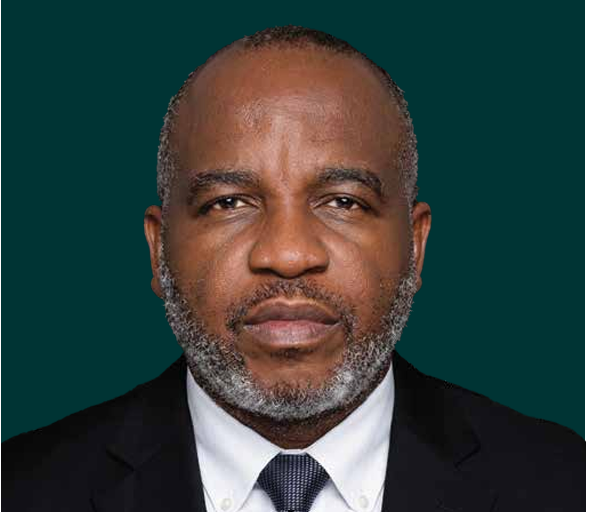
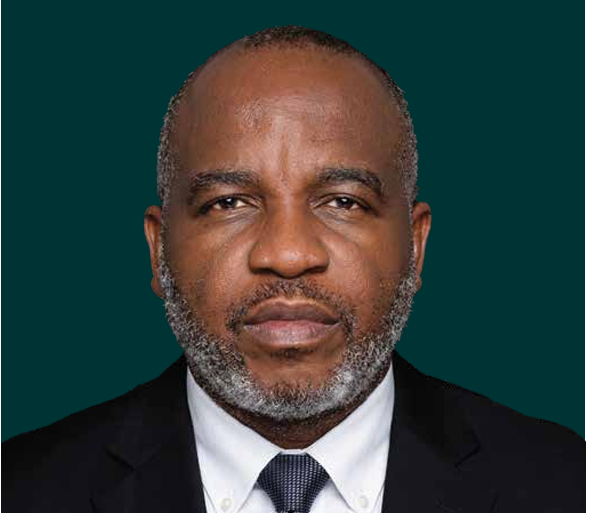
Update company profile assets and site metadata

diff --git a/constants.ts b/constants.ts
@@ -31,33 +31,33 @@ export const NAV_ITEMS: NavItem[] = [
 export const TEAM_MEMBERS = [
   {
     name: "Anthony Nwachukwu Nwokoro",
-    role: "Managing Director / CEO",
+    role: "CHAIRMAN / CHIEF EXECUTIVE OFFICER (CEO)",
     image: "/images/team/Anthony Nwachukwu Nwokoro.png",
-    bio: "Leads strategy, stakeholder engagement, and project execution across energy, engineering, and infrastructure mandates."
+    bio: "A seasoned energy executive with extensive experience in oil and gas, engineering, and infrastructure development."
   },
   {
     name: "Olusayo Ademola Ajayi",
-    role: "Executive Director, Engineering",
+    role: "NON-EXECUTIVE DIRECTOR",
     image: "/images/team/olusayonon executive director.png",
-    bio: "Guides engineering delivery, quality systems, and technical assurance for multidisciplinary projects."
+    bio: "A chartered engineer and project management expert with a track record in major EPCM projects."
   },
   {
     name: "Felix Radizi",
-    role: "Director, Operations",
+    role: "NON-EXECUTIVE DIRECTOR",
     image: "/images/team/felix.png",
-    bio: "Oversees field operations, fabrication support, logistics coordination, and operational readiness."
+    bio: "Expert in operations management, fabrication, and technical support for energy projects."
   },
   {
     name: "Ebele Ndukwe Radizi",
-    role: "Company Secretary / Chief Legal Officer",
+    role: "COMPANY SECRETARY/CHIEF LEGAL OFFICER",
     image: "/images/team/Ebele company sec.png",
-    bio: "Leads corporate governance, legal advisory, regulatory compliance, and stakeholder communication."
+    bio: "Specialist in corporate governance, compliance, and stakeholder engagement."
   },
   {
     name: "Adebola Evelyn Owede",
-    role: "Chief Finance Officer",
+    role: "NON-EXECUTIVE DIRECTOR",
     image: "/images/team/adebola chief finance.png",
-    bio: "CFA charterholder and senior finance professional with experience across treasury, capital markets, financial modelling, and strategic finance."
+    bio: "Finance professional with expertise in financial management and strategic planning."
   }
 ];
 
@@ -186,7 +186,7 @@ export const CONTACT_INFO = {
     }
   ],
   phone: "+234 806 388 5724",
-  phones: ["+234 806 388 5724", "+234 803 351 4867"],
+  phones: ["+234 806 388 5724", "+234 803 321 4867"],
   email: "[email redacted]",
   website: "www.verteenergies.com"
 };

diff --git a/public/leadership.html b/public/leadership.html
@@ -44,7 +44,7 @@
             <img src="/images/team/Anthony Nwachukwu Nwokoro.png" alt="Anthony Nwachukwu Nwokoro" class="aspect-square w-full max-w-[220px] rounded object-cover" />
             <div>
               <h2 class="text-2xl font-bold text-[#ffd700]">Anthony Nwachukwu Nwokoro</h2>
-              <p class="mt-1 text-[#B89B5E] font-semibold">Managing Director/CEO</p>
+              <p class="mt-1 text-[#B89B5E] font-semibold">CHAIRMAN / CHIEF EXECUTIVE OFFICER (CEO)</p>
               <p class="mt-4 text-gray-200 leading-relaxed">A seasoned energy executive with extensive experience in oil and gas, engineering, and infrastructure development.</p>
             </div>
           </div>
@@ -52,7 +52,7 @@
             <img src="/images/team/olusayonon executive director.png" alt="Olusayo Ademola Ajayi" class="aspect-square w-full max-w-[220px] rounded object-cover" />
             <div>
               <h2 class="text-2xl font-bold text-[#ffd700]">Olusayo Ademola Ajayi</h2>
-              <p class="mt-1 text-[#B89B5E] font-semibold">Executive Director, Engineering</p>
+              <p class="mt-1 text-[#B89B5E] font-semibold">NON-EXECUTIVE DIRECTOR</p>
               <p class="mt-4 text-gray-200 leading-relaxed">A chartered engineer and project management expert with a track record in major EPCM projects.</p>
             </div>
           </div>
@@ -60,7 +60,7 @@
             <img src="/images/team/felix.png" alt="Felix Radizi" class="aspect-square w-full max-w-[220px] rounded object-cover" />
             <div>
               <h2 class="text-2xl font-bold text-[#ffd700]">Felix Radizi</h2>
-              <p class="mt-1 text-[#B89B5E] font-semibold">Director, Operations</p>
+              <p class="mt-1 text-[#B89B5E] font-semibold">NON-EXECUTIVE DIRECTOR</p>
               <p class="mt-4 text-gray-200 leading-relaxed">Expert in operations management, fabrication, and technical support for energy projects.</p>
             </div>
           </div>
@@ -68,7 +68,7 @@
             <img src="/images/team/Ebele company sec.png" alt="Ebele Ndukwe Radizi" class="aspect-square w-full max-w-[220px] rounded object-cover" />
             <div>
               <h2 class="text-2xl font-bold text-[#ffd700]">Ebele Ndukwe Radizi</h2>
-              <p class="mt-1 text-[#B89B5E] font-semibold">Director, Corporate Services</p>
+              <p class="mt-1 text-[#B89B5E] font-semibold">COMPANY SECRETARY/CHIEF LEGAL OFFICER</p>
               <p class="mt-4 text-gray-200 leading-relaxed">Specialist in corporate governance, compliance, and stakeholder engagement.</p>
             </div>
           </div>
@@ -76,7 +76,7 @@
             <img src="/images/team/adebola chief finance.png" alt="Adebola Evelyn Owede" class="aspect-square w-full max-w-[220px] rounded object-cover" />
             <div>
               <h2 class="text-2xl font-bold text-[#ffd700]">Adebola Evelyn Owede</h2>
-              <p class="mt-1 text-[#B89B5E] font-semibold">Director, Finance</p>
+              <p class="mt-1 text-[#B89B5E] font-semibold">NON-EXECUTIVE DIRECTOR</p>
               <p class="mt-4 text-gray-200 leading-relaxed">Finance professional with expertise in financial management and strategic planning.</p>
             </div>
           </div>

diff --git a/api/send.js b/api/send.js
@@ -102,7 +102,7 @@ export default async function handler(req, res) {
     }
 
     const fromAddress = process.env.FROM_EMAIL || process.env.SMTP_USER;
-    const toAddress = process.env.TO_EMAIL || '[email redacted]';
+    const toAddress = process.env.TO_EMAIL || '[email redacted]';
 
     const mailOptions = {
       from: `"Windek Website" <${fromAddress}>`,